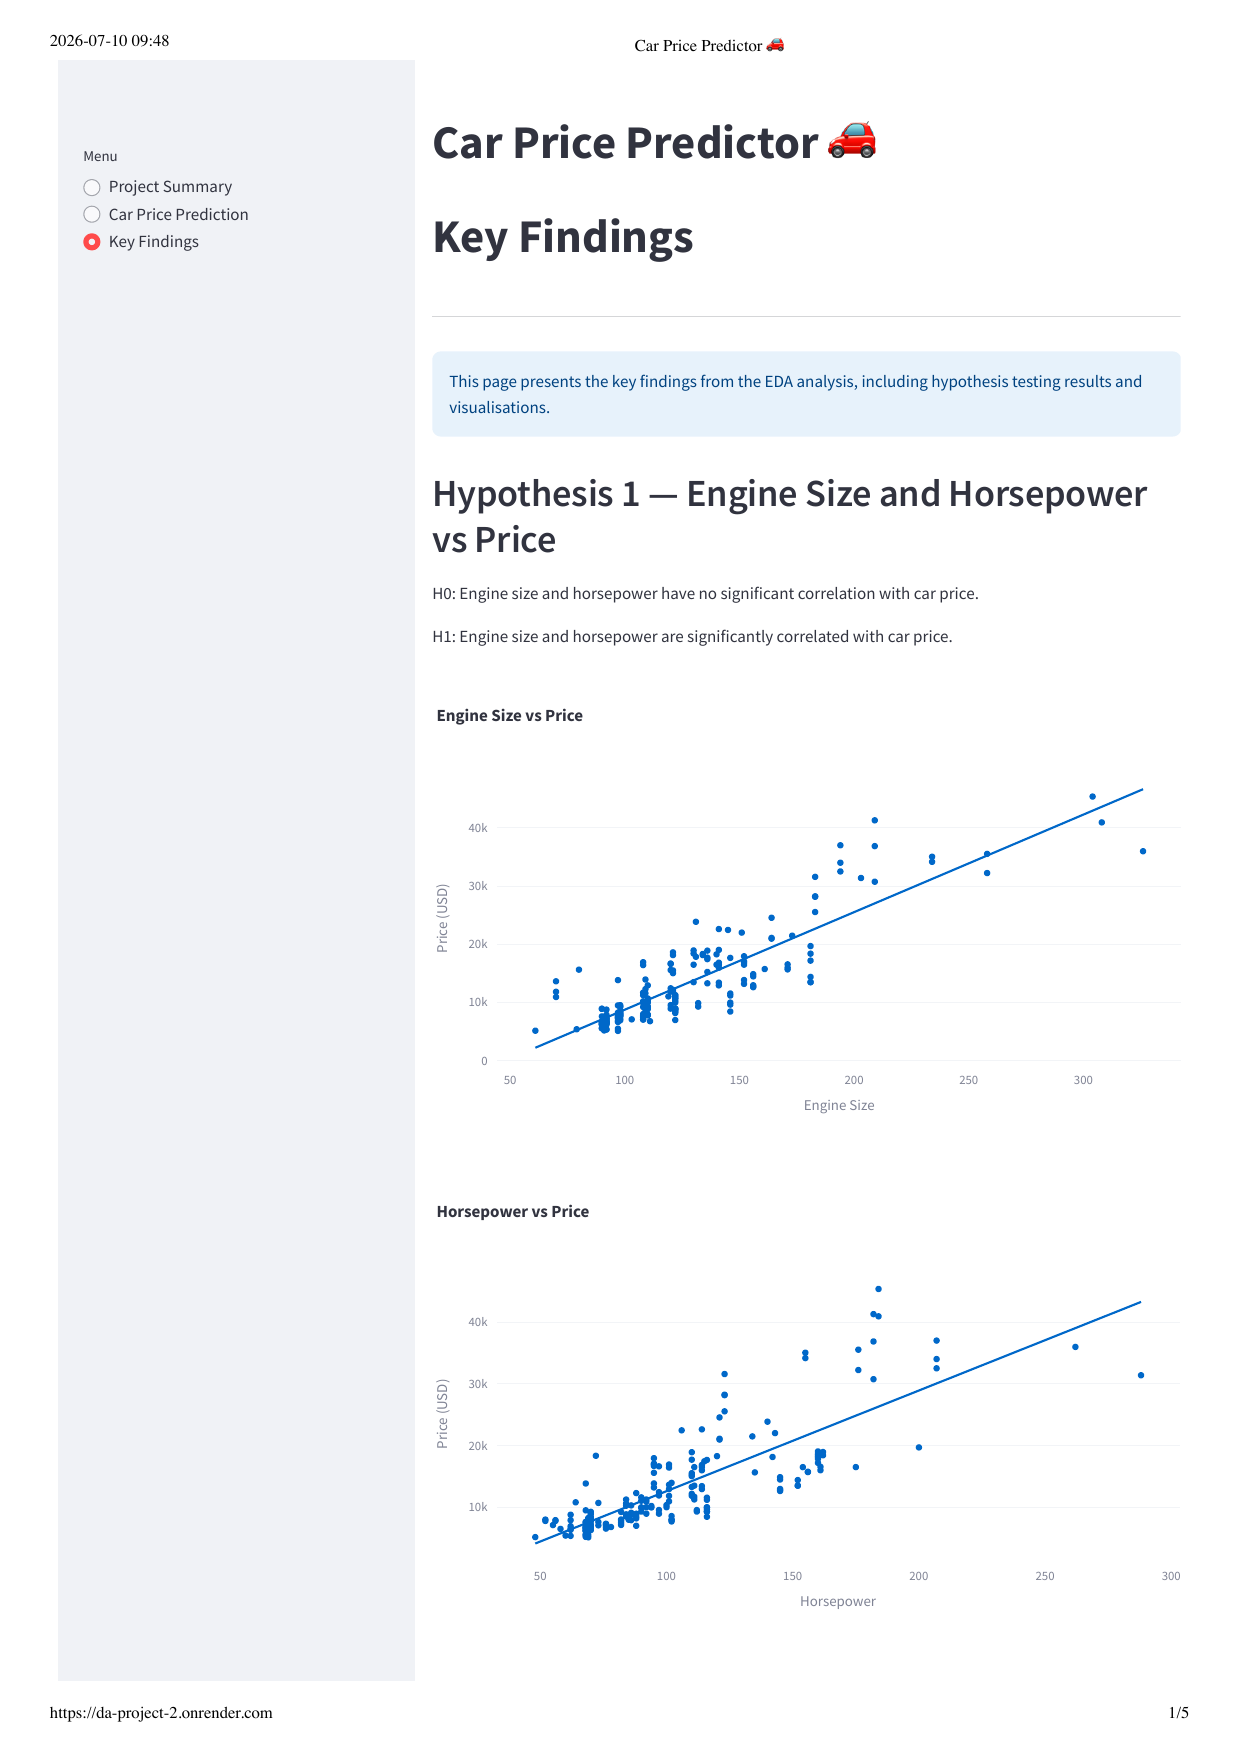
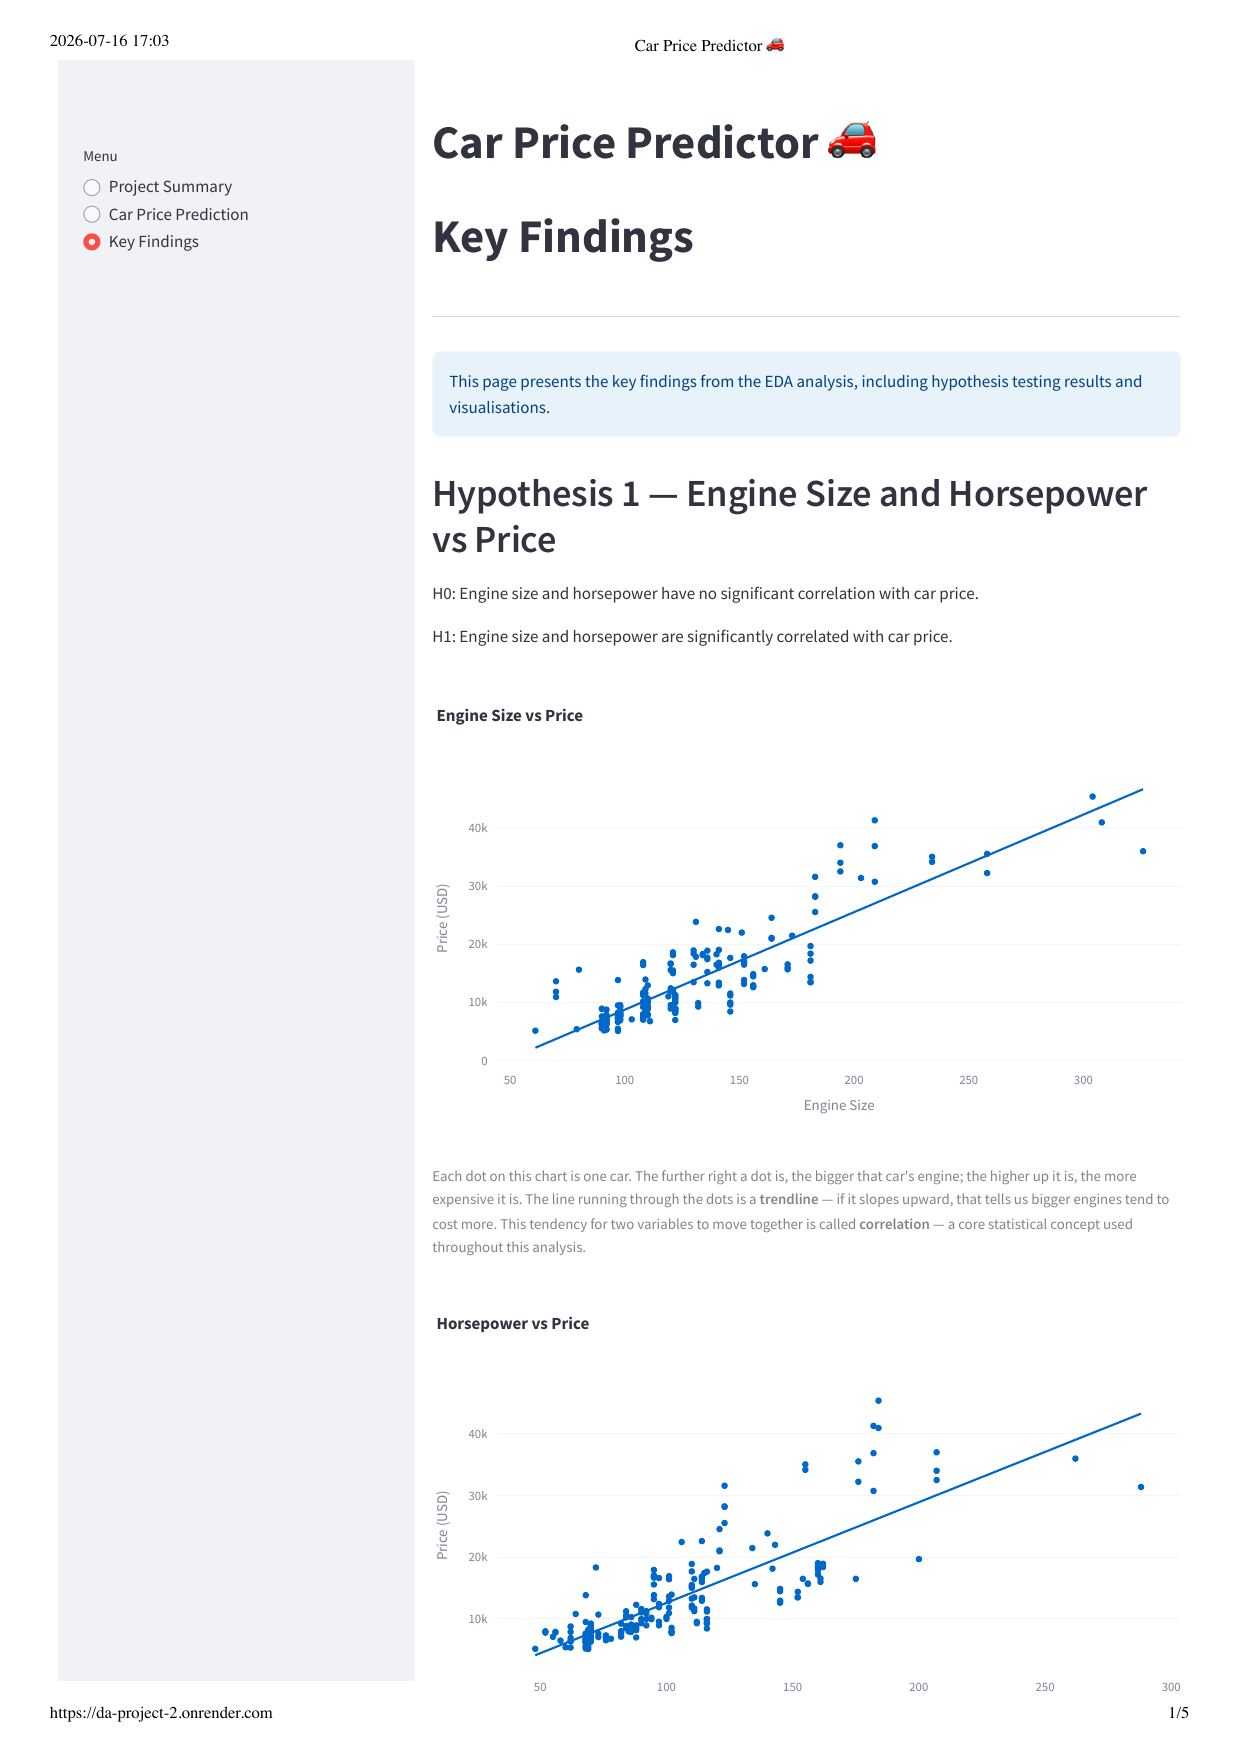
adding images to readme

diff --git a/app_pages/page_prediction.py b/app_pages/page_prediction.py
@@ -115,8 +115,9 @@ def page_prediction_body():
         )
 
     st.write("---")
-
+    
     if st.button("Predict Price"):
+        # Build input DataFrame matching the model's expected column order
         input_data = pd.DataFrame([{
             'enginesize': enginesize,
             'horsepower': horsepower,
@@ -141,7 +142,7 @@ def page_prediction_body():
             'fuelsystem': fuelsystem,
             'CarBrand': CarBrand
         }])
-
+        # Encode categorical columns using the same encoder fitted in 03_ML.ipynb
         categorical_cols = [
             'fueltype', 'aspiration', 'carbody', 'drivewheel',
             'enginelocation', 'enginetype', 'fuelsystem', 'CarBrand'

diff --git a/README.md b/README.md
@@ -478,8 +478,8 @@ Tableau dashboard.
 * Business Recommendations
 
 ![Streamlit Key Findings — Hypothesis 1](readme_images/streamlit_key_findings_1_1.png)  
-![Streamlit Key Findings — Feature Importance & Model Performance](readme_images/streamlit_key_findings_2_1.png) 
-
+![Streamlit Key Findings — Hypothesis 4 & Feature Importance](readme_images/streamlit_key_findings_4_1.png) 
+![Streamlit Key Findings — Model Performance, Limitations & Business Recommendations](readme_images/streamlit_key_findings_5_1.png) 
 
 ### Tableau Dashboard
 * Dashboard title, full-width bar chart (Average Price by Car Brand) on the 